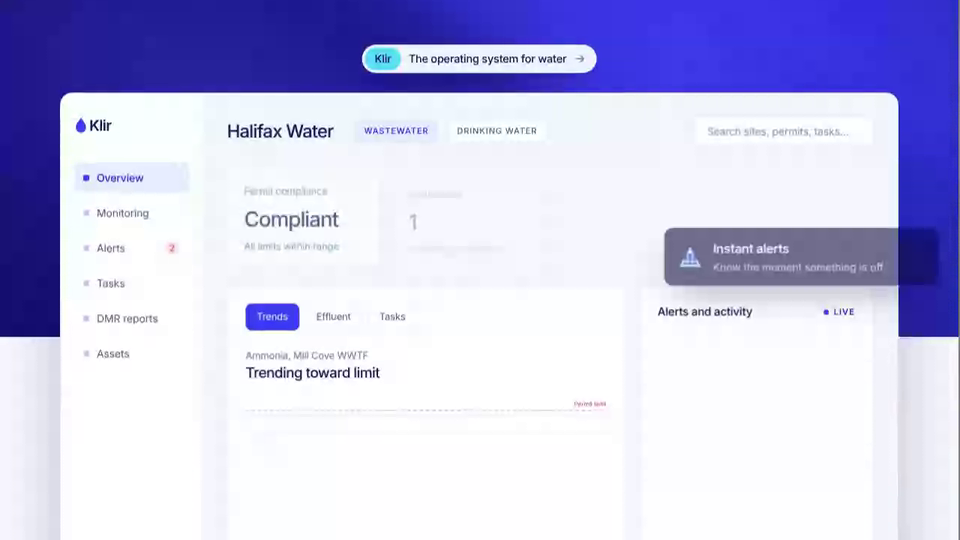
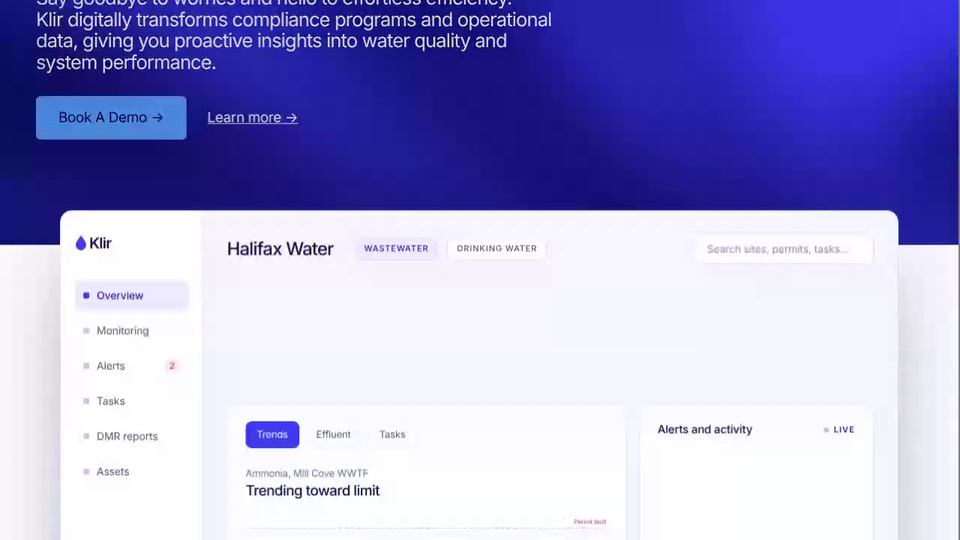
Klir Landing Page: enterprise UI cards stay still after they appear
Claude-Session: https://claude.ai/code/session_01AHeBdxxJMjuAF9w67sWwW5

diff --git a/klir-landing-page/index.html b/klir-landing-page/index.html
@@ -186,7 +186,7 @@ footer p{font-size:clamp(18px,1.8vw,22px);letter-spacing:-.02em;max-width:30em;m
 @keyframes kb{to{transform:scale(1.08)}}
 @keyframes lv{0%{box-shadow:0 0 0 0 rgba(59,59,239,.5)}100%{box-shadow:0 0 0 8px rgba(59,59,239,0)}}
 .ecimg>img{animation:kb 16s ease-in-out infinite alternate}
-.ec:not(.vis) .ui{opacity:0}.ec.vis .ui{animation:uin .9s cubic-bezier(.2,.7,.2,1) both,flt 7s .9s ease-in-out infinite}
+.ec:not(.vis) .ui{opacity:0}.ec.vis .ui{animation:uin .9s cubic-bezier(.2,.7,.2,1) both}
 .ec:not(.vis) .ui .ur,.ec:not(.vis) .ui .fld,.ec:not(.vis) .ui .ub{opacity:0}
 .ec.vis .ui .ur,.ec.vis .ui .fld,.ec.vis .ui .ub{animation:fi .6s both;animation-delay:calc(.45s + var(--i,0)*.13s)}
 .ec:not(.vis) .prog i{width:0}
